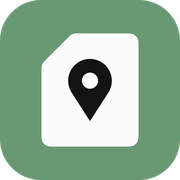
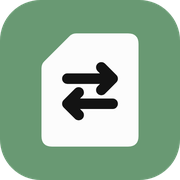
brand: 图标改成「卡 + 双向箭头」，去掉定位图钉
图钉是个比 SIM 强得多的符号，放上去第一眼被读成定位软件，斜切角反而成了配角。
换成卡心两条反向箭头：斜切角负责「这是 SIM」，箭头负责「被改写」——
国家码和运营商名本来就是盖掉系统读到的那份配置，不动卡。

单色版的箭头要改写成实心多边形才能进 evenOdd 镂空；启动图标两层同步，
前景层继续用描边。红米 Note 14 Pro 装机核过真实渲染。

Changed region(s): [[0.3333, 0.3056, 0.6667, 0.6944], [0.6111, 0.3889, 0.6667, 0.5], [0.5833, 0.3611, 0.6111, 0.3889]]

diff --git a/brand/README.md b/brand/README.md
@@ -1,14 +1,16 @@
 # Simlet 品牌资源
 
-图标讲的是这个应用在干的事：**一张 SIM 卡，被钉到了别的国家。**
+图标讲的是这个应用在干的事：**一张 SIM 卡，内容被改写。**
 
-左上那道斜切角是 SIM 的身份（没有斜切角它就只是一张纸），中间那颗图钉是「位置」。两个形状、三种颜色，缩到 40px 还认得出来——这是它能直接当 QQ 头像用的原因。
+左上那道斜切角是 SIM 的身份（没有斜切角它就只是一张白卡片），卡心一上一下两条反向箭头是「覆盖、改写」——国家码和运营商名都是盖掉系统读到的那份配置，不动卡本身。两个形状、三种颜色，缩到 40px 还认得出来，这是它能直接当 QQ 头像用的原因。
+
+> 第一版在卡心放的是定位图钉，一眼被读成地图/定位软件——图钉是个比 SIM 强得多的符号，语义会被抢走。所以这里宁可少一点抓眼，也不留错类别。
 
 ## 文件
 
 | 文件 | 用途 |
 | --- | --- |
-| `svg/simlet-icon.svg` | 主图标：绿底方角，白卡黑钉。仓库展示、应用商店、文档首页 |
+| `svg/simlet-icon.svg` | 主图标：绿底方角，白卡墨箭头。仓库展示、应用商店、文档首页 |
 | `svg/simlet-icon-dark.svg` | 深色底：墨底绿卡。深色桌面、深色聊天列表、暗色海报 |
 | `svg/simlet-avatar.svg` | 圆形满幅：**QQ / 微信 / GitHub 头像用这一张**，方底被裁成圆会缺角 |
 | `svg/simlet-mark.svg` | 纯图形，透明底。嵌在别的版面里用 |
@@ -20,15 +22,14 @@
 
 ## 几何
 
-画布 512×512，图形写在 240×280 的卡上、居中于 (256,256)，再整体放大 1.15 撑满底。
+画布 512×512，图形写在 240×280 的卡上、居中于 (256,256)，再整体放大 1.15 撑满底（圆底头像版放大 1.26）。
 
 - 卡：`x 136..376`、`y 116..396`，圆角 26，左上 76 斜切（斜切两端各倒 10 圆角，别留尖角）
-- 图钉：圆心 `(256,233)`、半径 54，尖端 `(256,333)`；两条边与圆相切，切点 `x 210.5 / 301.5`
-- 钉孔：`(256,233)`，半径 20
+- 箭头：26 描边、圆帽圆角。上条水平 `y=228`、`x 200..312`，箭头尖朝右；下条水平 `y=290`、`x 200..312`，箭头尖朝左。两条错开半个身位，中间留 36 的空隙
 
-单色版是**一条路径 + `fill-rule="evenodd"`**：卡实、钉镂空、钉孔又实。拆成三个同色 path 会全部涂成一个颜色，图钉就没了。
+单色版是**一条路径 + `fill-rule="evenodd"`**：卡实、两条箭头镂空。这里箭头必须写成实心多边形（镂空只能镂空填充形状，描边进不了 evenOdd），所以杆端补了 13 的圆帽、箭头尖保留直角。
 
-Android 启动图标复用同一批路径：`app/src/main/res/drawable/ic_launcher_foreground.xml` 里用 `<group>` 把 512 画布缩到 108 自适应画布，缩放系数 `0.1746 = 32.2 / 184.4`（184.4 是卡角到中心的距离，32.2 留在 66dp 可见圆内）。**改形状要两边一起改**，别在启动图标里另画一套。
+Android 启动图标复用同一批路径：`app/src/main/res/drawable/ic_launcher_foreground.xml` 里用 `<group>` 把 512 画布缩到 108 自适应画布，缩放系数 `0.1746 = 32.2 / 184.4`（184.4 是卡角到中心的距离，32.2 留在 66dp 可见圆里）。**改形状要两边一起改**，别在启动图标里另画一套。
 
 ## 颜色
 
@@ -36,13 +37,14 @@ Android 启动图标复用同一批路径：`app/src/main/res/drawable/ic_launch
 | --- | --- | --- |
 | 品牌绿（主底 / 深色版卡） | `#699973` / `#89CC97` | 应用内强调色 `AccentLight` / `AccentDark` |
 | 卡白 | `#FCFCFC` | 应用内 `SurfaceLight` |
-| 墨（图钉 / 深色版底） | `#131313` | 应用内 `TextPrimaryLight` |
+| 墨（箭头 / 深色版底） | `#131313` | 应用内 `TextPrimaryLight` |
 
-绿底 + 白卡 + 墨钉是固定搭配，不要换成语义不同的第三种颜色。需要单色时走 `simlet-icon-mono.svg`，用 `currentColor` 涂。
+绿底 + 白卡 + 墨箭头是固定搭配，不要换成语义不同的第三种颜色。需要单色时走 `simlet-icon-mono.svg`，用 `currentColor` 涂。
 
 ## 红线
 
-- 不加投影、渐变、描边、圆角外发光——这三层形状本身就够了
-- 不拉伸、不斜切、不给图钉换形状；只允许整体等比缩放
+- 不加投影、渐变、描边外发光、圆角外发光——这两个形状本身就够了
+- 不拉伸、不斜切、不给箭头换方向；只允许整体等比缩放
 - 主图标四周留白不小于卡宽的 18%；嫌挤就用 `simlet-avatar.svg`，别自己裁
 - 别把卡画成正方形：斜切角是这张图唯一的「这是 SIM」的线索
+- 别往卡心放图钉、地球、旗子这类自带类别的符号——放什么就被读成什么
